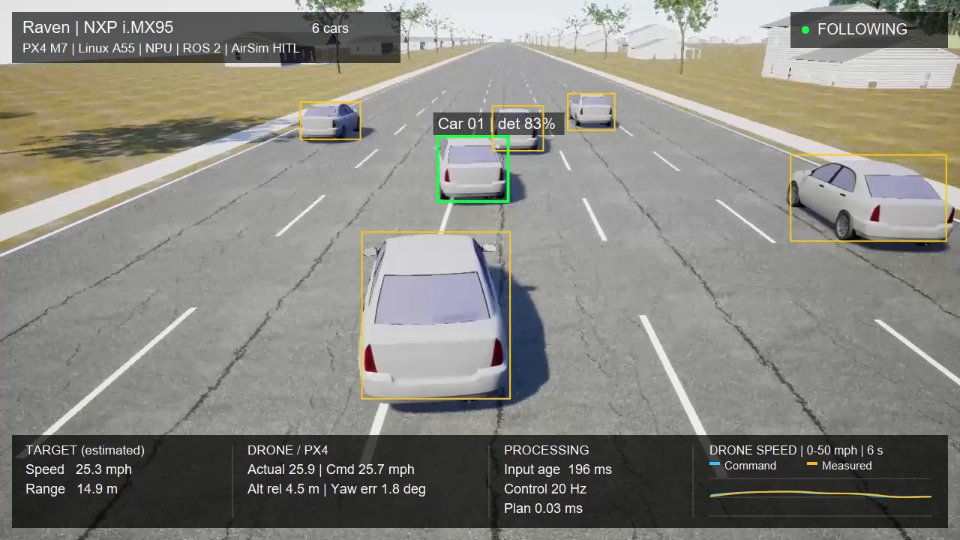
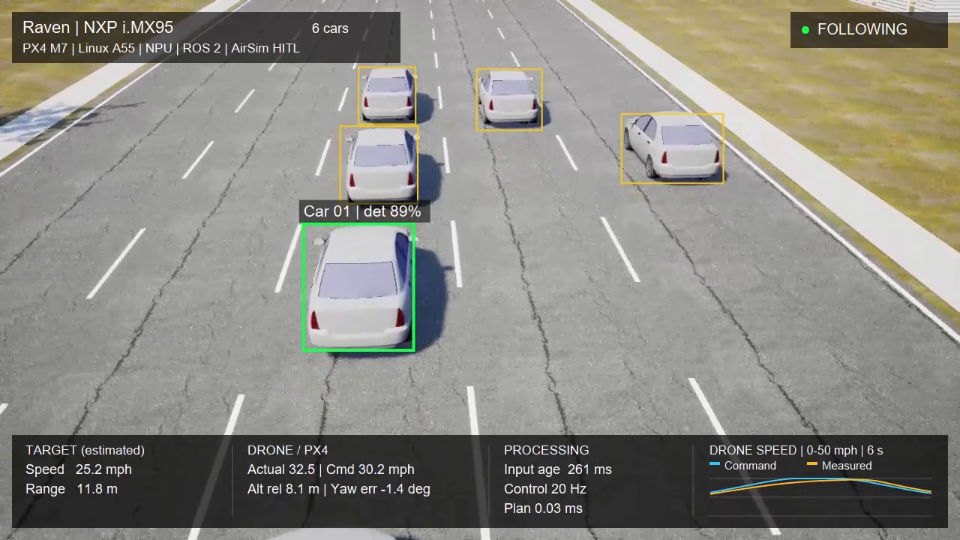
Show six-car tracking through five bridge occlusions

diff --git a/index.html b/index.html
@@ -4,7 +4,7 @@
   <meta charset="utf-8">
   <meta name="viewport" content="width=device-width, initial-scale=1">
   <meta name="description" content="Raven vehicle tracking on NXP i.MX95: NPU vision, ROS 2 guidance and M7 PX4 hardware-in-the-loop.">
-  <title>Raven | Six-car tracking</title>
+  <title>Raven | Five-bridge tracking</title>
   <style>
     :root { color-scheme: dark; font-family: system-ui, sans-serif; background: #10151c; color: #ecf0f5; }
     body { margin: 0; }
@@ -24,24 +24,26 @@
 <body>
   <main>
     <header>
-      <h1>Raven / Six-car tracking</h1>
+      <h1>Raven / Five-bridge tracking</h1>
       <span class="tag">NXP i.MX95</span>
     </header>
-    <p>NPU vision and ROS 2 guidance on Linux. Flight control on Cortex-M7 PX4.</p>
-    <video id="demo" controls playsinline preload="metadata" poster="images/six-car-tracking.png" aria-label="Six-car tracking demonstration">
-      <source src="https://github.com/Swamy-BV/raven-demos/releases/download/showcase-2026-10-22/raven-six-car-tracking-720p.mp4" type="video/mp4">
-      Your browser does not support this video. Use the MP4 links below.
+    <p>Six cars, five bridge occlusions. NPU vision and ROS 2 guidance on Linux; flight control on Cortex-M7 PX4.</p>
+    <video id="demo" controls playsinline preload="metadata" poster="images/six-car-tracking.png" aria-label="Six-car tracking through five bridges">
+      <source src="https://github.com/Swamy-BV/raven-demos/releases/download/bridges-2026-10-22/raven-five-bridges-720p.mp4" type="video/mp4">
+      Your browser does not support this video. Use the MP4 link below.
     </video>
     <p id="status" role="status">720p · 76-second demonstration. Press play to watch.</p>
     <nav aria-label="Project links">
-      <a href="https://github.com/Swamy-BV/raven-demos/releases/download/showcase-2026-10-22/raven-six-car-tracking-720p.mp4">Open 720p MP4</a>
+      <a href="https://github.com/Swamy-BV/raven-demos/releases/download/bridges-2026-10-22/raven-five-bridges-720p.mp4">Open 720p MP4</a>
       <a href="https://github.com/Swamy-BV/raven-manifest/tree/develop">Build Raven</a>
       <a href="https://github.com/Swamy-BV/meta-raven/tree/develop">Onboard software</a>
-      <a href="https://github.com/Swamy-BV/raven-demos/releases/tag/showcase-2026-10-22">MP4 files and checksums</a>
+      <a href="https://github.com/Swamy-BV/raven-demos/releases/tag/bridges-2026-10-22">MP4 files and checksums</a>
     </nav>
     <footer>
       <p>Real i.MX95 onboard compute and M7 PX4 control a simulated AirSim aircraft.
         This demonstrates hardware-in-the-loop operation, not physical flight.
+        The selected car was reacquired after all five bridges. Active following was 84%;
+        the 90% sustained-following target remains unmet.
         Visual odometry is a separate evaluation and does not control this demo.</p>
     </footer>
   </main>
@@ -51,7 +53,7 @@
     video.addEventListener('loadedmetadata', () => {
       status.textContent = '720p · 76-second demonstration. Press play to watch.';
     });
-    video.addEventListener('playing', () => { status.textContent = 'Playing / six-car tracking on NXP i.MX95.'; });
+    video.addEventListener('playing', () => { status.textContent = 'Playing / six cars and five bridges on NXP i.MX95.'; });
     video.addEventListener('waiting', () => { status.textContent = 'Buffering video.'; });
     video.addEventListener('error', () => { status.textContent = 'Playback failed. Open the 720p MP4 below.'; });
     video.addEventListener('ended', () => { status.textContent = 'Demonstration complete.'; });

diff --git a/README.md b/README.md
@@ -4,13 +4,13 @@ Hardware-connected demonstrations of the Raven drone platform on **NXP FRDM-IMX9
 
 [Build the platform](https://github.com/Swamy-BV/raven-manifest/tree/develop) | [Onboard software](https://github.com/Swamy-BV/meta-raven/tree/develop) | [Simulation scenarios](https://github.com/Swamy-BV/raven-simulation)
 
-## Six-car tracking
+## Six-car tracking through five bridges
 
 [Watch in your browser](https://swamy-bv.github.io/raven-demos/)
 
-[![Selected-car tracking on NXP i.MX95](images/six-car-tracking.png)](https://swamy-bv.github.io/raven-demos/)
+[![Selected-car tracking through five bridges on NXP i.MX95](images/six-car-tracking.png)](https://swamy-bv.github.io/raven-demos/)
 
-The selected car moves through a six-car lane-shuffle scene. i.MX95 Linux runs
+The selected car moves among six cars through five bridge occlusions. i.MX95 Linux runs
 NPU detection, vehicle appearance matching, tracking and guidance. PX4/NuttX on
 the actual Cortex-M7 controls the simulated aircraft through hardware-in-the-loop.
 Windows AirSim supplies the scene, camera and simulated sensor data.
@@ -18,9 +18,12 @@ Windows AirSim supplies the scene, camera and simulated sensor data.
 - **Onboard:** YOLOv8s detection and PP-LCNet vehicle embeddings on the Neutron
   NPU; ByteTrack association and ROS 2 guidance on the Cortex-A55.
 - **Flight control:** M7 PX4 receives guidance over the onboard RPMsg DDS link.
-- **Recording:** approximately 76 seconds, including a 61-second following test.
+- **Recording:** approximately 76 seconds, including a 61-second tracking window.
+- **Recovery:** the selected car was reacquired after all five bridges. Active
+  following was 84%, below the 90% validation target; sustained following remains
+  unqualified. Simulator identity checks were used only for evaluation.
 
-[720p MP4 (34.87 MB)](https://github.com/Swamy-BV/raven-demos/releases/download/showcase-2026-10-22/raven-six-car-tracking-720p.mp4)
+[720p MP4](https://github.com/Swamy-BV/raven-demos/releases/download/bridges-2026-10-22/raven-five-bridges-720p.mp4)
 
 This demonstrates simulated flight with real onboard compute and flight control;
 physical flight has not been qualified. GPS-denied VIO is a separate shadow-mode
